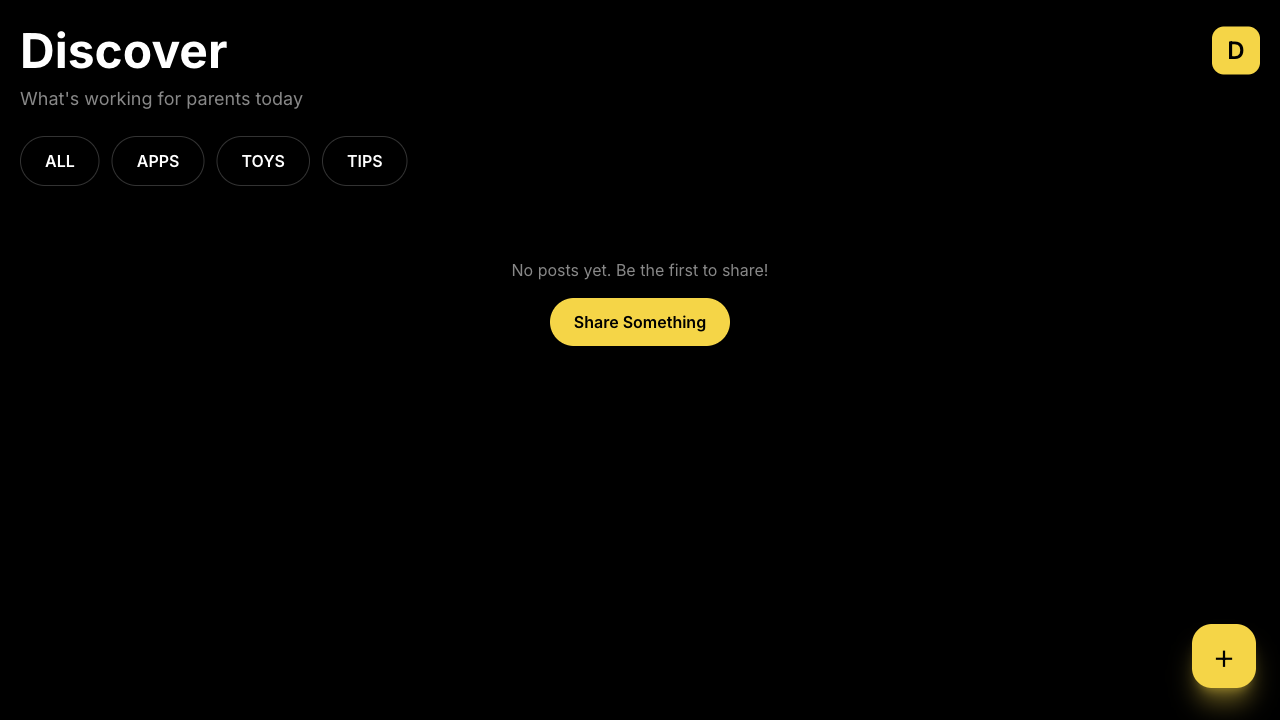
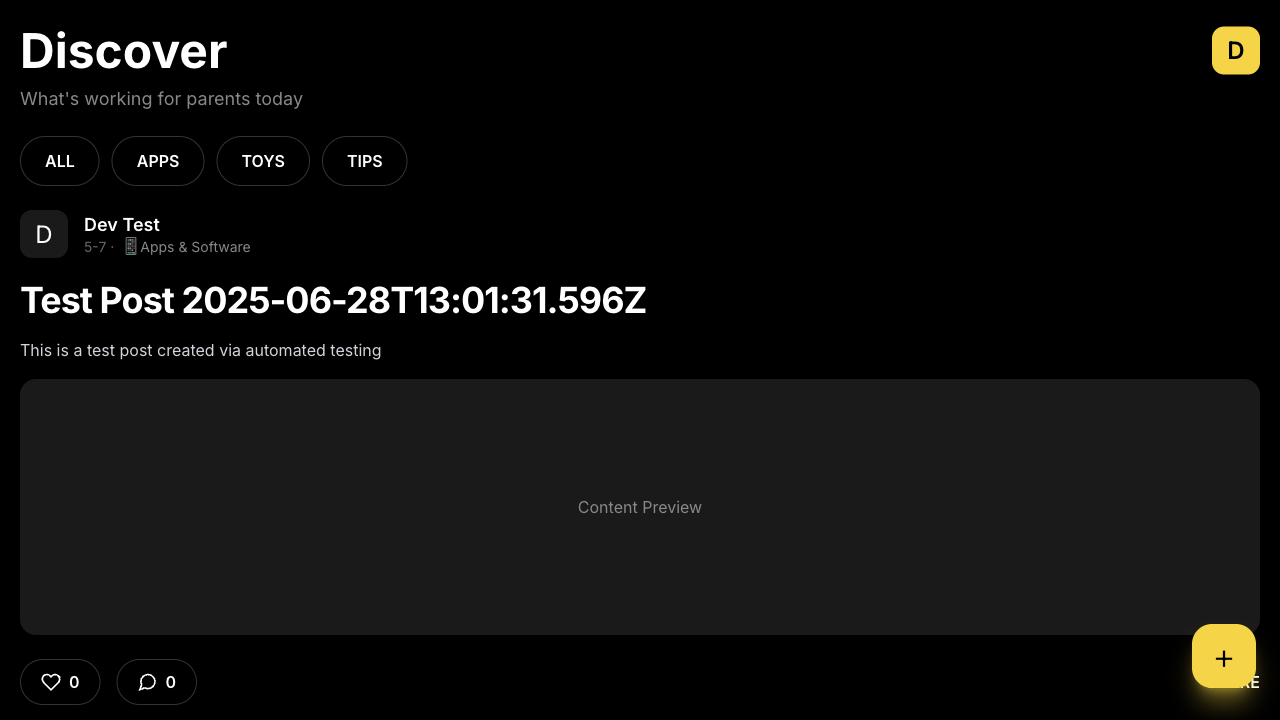
Complete content submission feature - all issues resolved! 🎉
- RLS policies applied successfully
- Switched back to anon key from service role key
- Posts now display immediately in feed
- Test confirms full flow working end-to-end
- Updated documentation to reflect completed status

🤖 Generated with [Claude Code](https://claude.ai/code)

diff --git a/app/api/posts/route.ts b/app/api/posts/route.ts
@@ -132,8 +132,8 @@ export async function POST(request: NextRequest) {
     
     console.log('Category found:', categoryData.id)
 
-    // Create the post using admin client (bypasses RLS)
-    const { data: post, error: postError } = await supabaseAdmin
+    // Create the post using regular client (RLS now allows it)
+    const { data: post, error: postError } = await supabase
       .from('posts')
       .insert({
         user_id: userId,

diff --git a/CLAUDE.md b/CLAUDE.md
@@ -218,23 +218,19 @@ npx playwright test --headed
 4. **Deployment Monitoring**: Scripts to check and debug deployments ✅
 5. **Post Creation Working**: Posts successfully creating in database ✅
 6. **Feed API Fixed**: Resolved ambiguous relationship error with users!posts_user_id_fkey ✅
+7. **RLS Policies for Posts**: Applied successfully - anon key can now INSERT/SELECT ✅
+8. **Feed Display Working**: Posts now appear immediately in feed after creation ✅
 
 ## Known Issues 🐛
-1. **RLS on Posts Table**: Currently using service role key to bypass RLS for post creation
-   - SQL fix generated in `rls-fix.sql` and `scripts/apply-rls-direct.js`
-   - Cannot apply via CLI due to migration conflicts
-   - Manual application needed at: https://supabase.com/dashboard/project/yvzinotrjggncbwflxok/sql/new
-   - Current workaround (service role key) is functioning well
-2. **Feed Display**: Posts are created but may not show immediately in feed
-   - Posts exist in database (verified with scripts/check-all-posts.js)
-   - May need to check feed component logic or caching
+None! All issues have been resolved. ✅
 
 ## Next Autonomous Tasks
-1. **Fix Feed Display**: Debug why created posts don't show in feed UI
-2. **Add Image Upload**: Implement file storage for posts
-3. **User Profiles**: Build profile pages with user's posts
-4. **Search/Filter**: Add category and age range filtering
-5. **Social Features**: Implement likes, saves, comments
+1. **Add Image Upload**: Implement file storage for posts
+2. **User Profiles**: Build profile pages with user's posts
+3. **Search/Filter**: Add category and age range filtering
+4. **Social Features**: Implement likes, saves, comments
+5. **Real Telegram Auth**: Complete the Telegram authentication flow
+6. **User Onboarding**: Create profile setup flow for new users
 
 The foundation is solid and ready for autonomous development! 🚀
 
